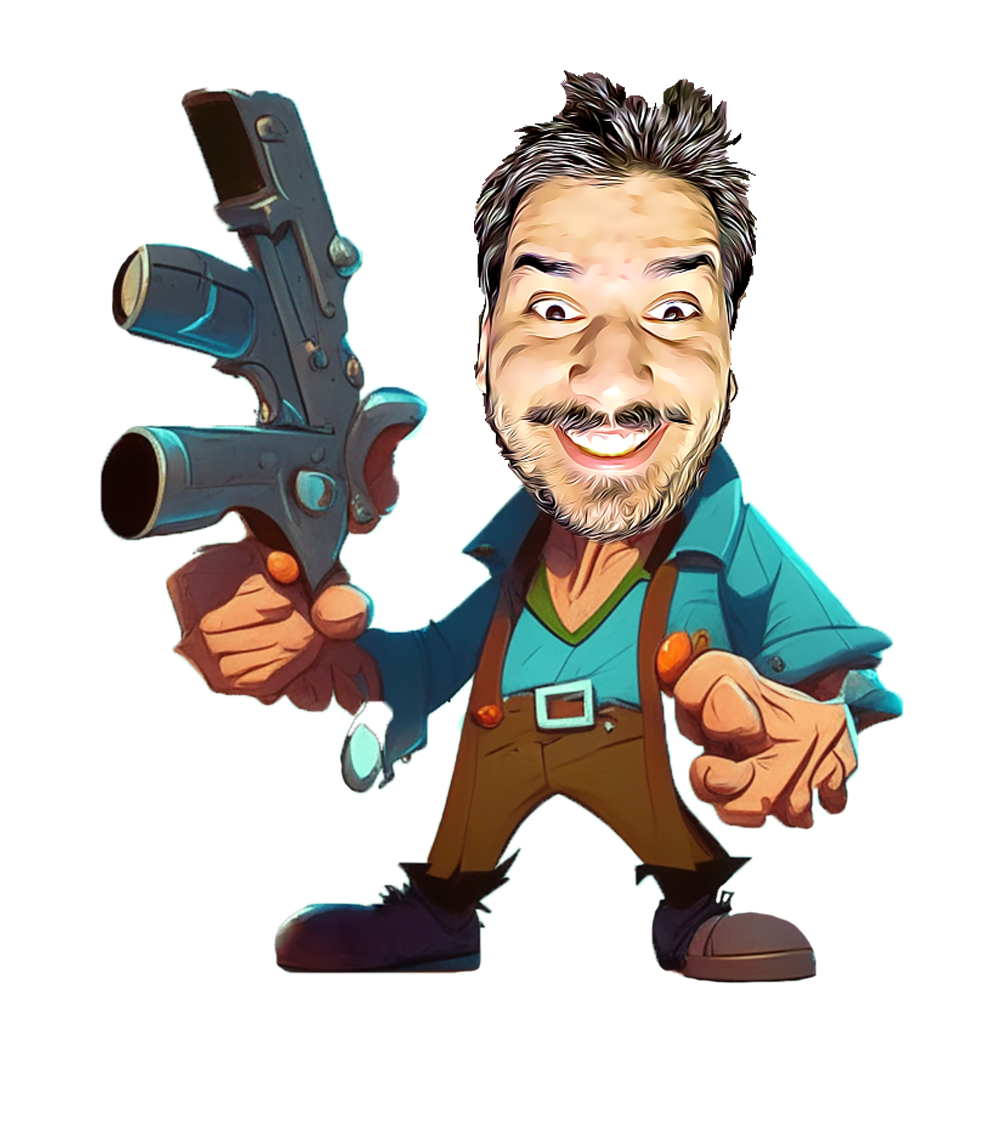
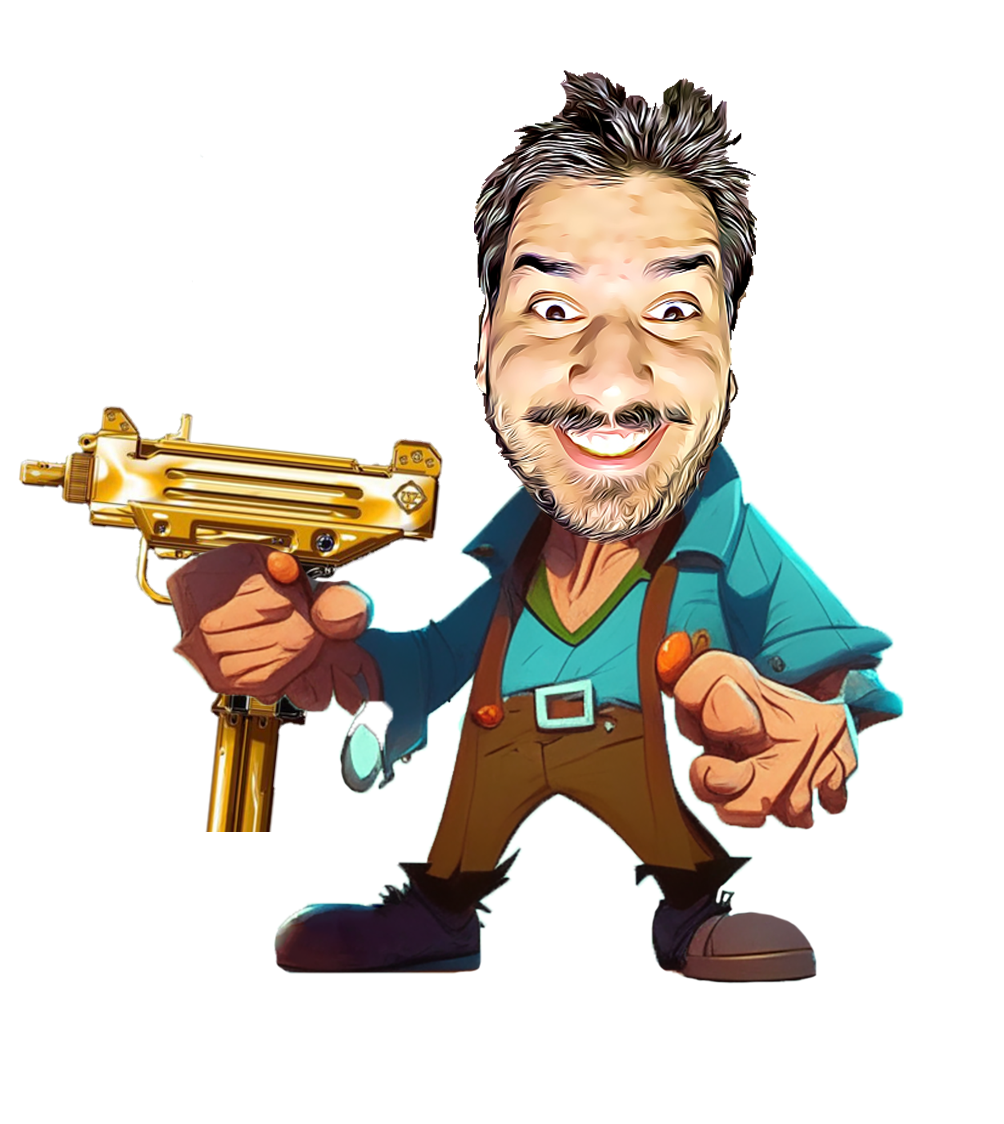
uzi NPC updated

Changed region(s): [[0.0, 0.0623, 0.4631, 0.5294], [0.1853, 0.5916, 0.3088, 0.7473], [0.1544, 0.5294, 0.1853, 0.5605]]

diff --git a/assets/js/index.js b/assets/js/index.js
@@ -882,15 +882,27 @@ function testing() {
 testing();
 
 const pistolPrice = 'ფასი: 200 გელა'
+const priceless = 'არიყიდება უნდა დაიმსახურო!'
 const priceDefault = 'ფასი:'
+const akPrice = 'ფასი: 2000 გელა'
 
 const pistolCard = document.getElementById('pistol') 
 const price = document.getElementById('price')
 const cards = document.querySelectorAll('.card')
+const uziCard = document.getElementById('uzicard')
+const akCard = document.getElementById('AKcard')
 
 
     pistolCard.addEventListener('mouseover', () => {
         price.textContent = pistolPrice
+    })
+
+    akCard.addEventListener('mouseover', () => {
+        price.textContent = akPrice
+    })
+
+    uziCard.addEventListener('mouseover', () => {
+        price.textContent = priceless
     })
 
 

diff --git a/index.html b/index.html
@@ -26,8 +26,12 @@
                 <div class="card pistol1" id="pistol">
                     <img src="assets/PistolNpc.png" width="100px" alt="">
                 </div>
-                <div class="card"></div>
-                <div class="card"></div>
+                <div class="card" id="AKcard">
+                    <img src="assets/AK47.png" width="180px" alt="">
+                </div>
+                <div class="card" id="uzicard">
+                    <img src="assets/uziNPC.png" width="60px" alt="">
+                </div>
                 <h1 class="price" id="price">ფასი: </h1>
             </div>
 
